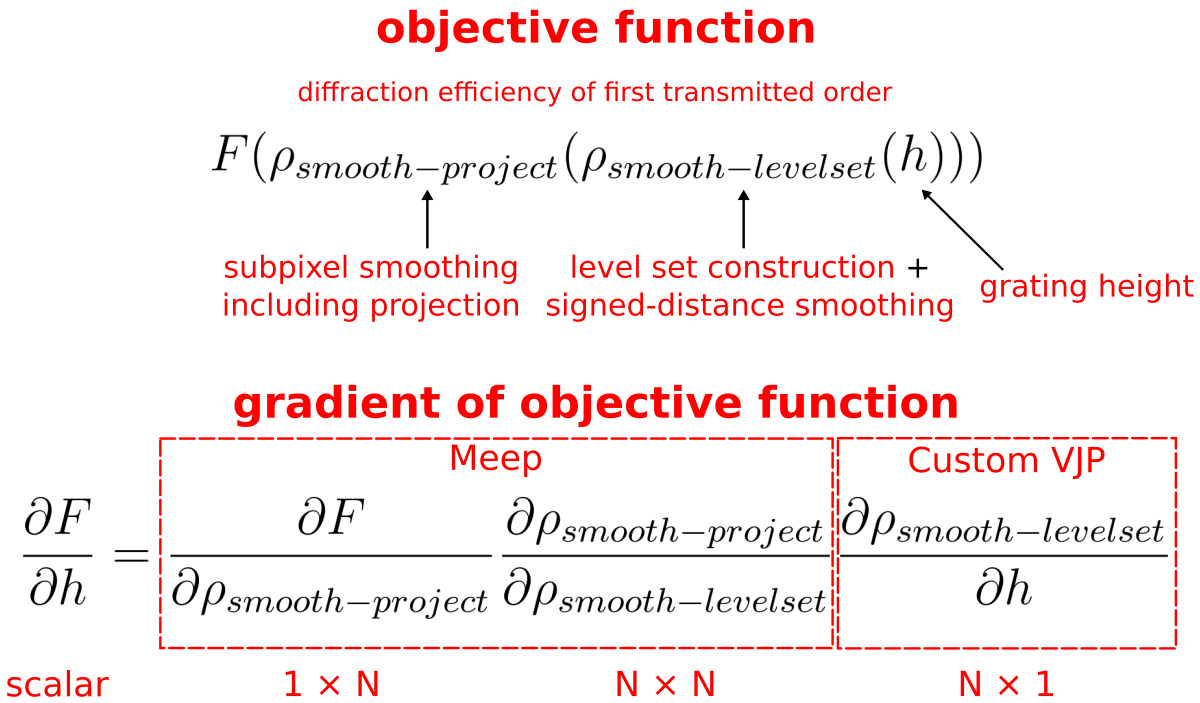
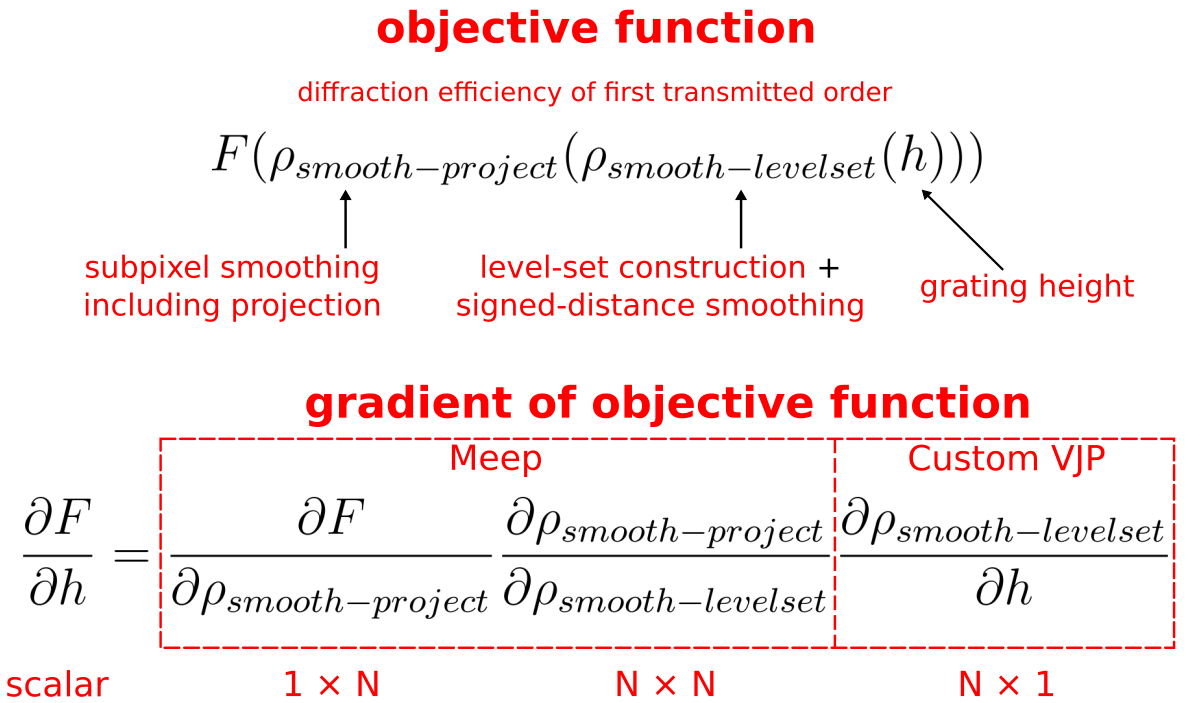
update figures and add results for S and P polarization

diff --git a/doc/docs/Python_Tutorials/Adjoint_Solver.md b/doc/docs/Python_Tutorials/Adjoint_Solver.md
@@ -809,6 +809,20 @@ Binary Grating as a Level Set
 
 This is a demonstration of computing the gradient of a level set using the adjoint solver.
 
+Results show good agreement between the adjoint gradient and the finite difference for the $\mathcal{S}$ polarization but *not* the $\mathcal{P}$ polarization. The accuracy does not improve with increasing resolution.
+
+The simulation script is in [python/examples/adjoint_optimization/binary_grating_levelset.py](https://github.com/NanoComp/meep/tree/master/python/examples/adjoint_optimization/binary_grating_levelset.py).
+
+**$\mathcal{S}$ polarization**
+```
+directional-deriv:, -0.00394839 (finite difference), -0.00355608 (adjoint), 0.099361 (error)
+```
+
+**$\mathcal{P}$ polarization**
+```
+directional-deriv:, -0.00090782 (finite difference), -0.00382003 (adjoint), 3.207894 (error)
+```
+
 ![](../images/levelset_gradient_backpropagation.png#center)
 
 ![](../images/levelset_jacobian_matrix.png#center)
